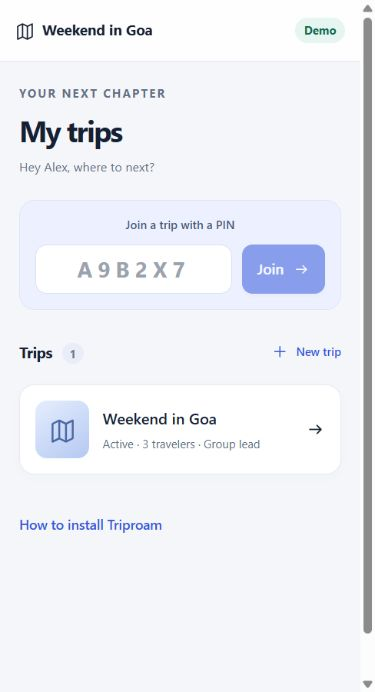
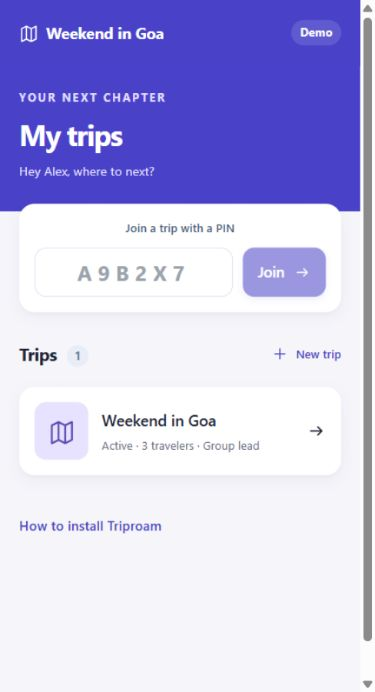
Redesign TripRoam with indigo cards and streamlined mobile flows

diff --git a/client/src/reference.css b/client/src/reference.css
@@ -1,0 +1,21 @@
+/* Indigo travel wallet, based on the supplied mobile references. */
+:root{--accent:#4841c6;--ink:#1d2034;--muted:#65677d;--canvas:#f5f5fa;--line:#e7e7f0;--positive:#087f60;--danger:#b63850;--card-shadow:0 5px 14px #27254b0c,0 2px 3px #27254b05}
+body{background:#eeeef5;font-family:Inter,ui-sans-serif,system-ui,-apple-system,"Segoe UI",sans-serif}
+.mobile-app{max-width:880px;margin:auto;background:linear-gradient(180deg,#4942c9 0,#4942c9 220px,var(--canvas) 220px);min-height:100dvh}
+.mobile-header{background:#4942c9;color:#fff;border:0;padding:calc(10px + env(safe-area-inset-top)) 20px 10px;min-height:68px;box-shadow:none}
+.mobile-header>strong{font-size:16px;font-weight:650}.mobile-header .icon-button{background:#ffffff14;color:white}.mobile-header .text-button{color:white}.mobile-header .connection-label{background:#ffffff20;color:#fff}
+.mobile-main{padding:24px 20px calc(170px + env(safe-area-inset-bottom));max-width:760px}.mobile-page-heading{color:#fff;gap:8px;margin-bottom:24px}.mobile-page-heading h1{font-size:30px;letter-spacing:-1px;font-weight:750;line-height:1.2;overflow-wrap:anywhere}.mobile-page-heading .eyebrow{color:#e1deff;font-size:11px;letter-spacing:1.4px}
+.primary,.google-button,.join-strip button{background:var(--accent);color:#fff;box-shadow:0 3px 7px #4841c626;border-radius:12px}.primary:hover,.google-button:hover{background:#3932aa}.secondary{background:#f2f1fc;border:1px solid #e4e1f6;color:#403aa5;border-radius:12px}.text-button{color:var(--accent)}button,a,summary{transition:background-color .15s,color .15s,box-shadow .15s}button:focus-visible,a:focus-visible,summary:focus-visible{outline:3px solid #e5a633;outline-offset:3px}input:focus-visible,select:focus-visible{outline:2px solid var(--accent);outline-offset:2px}
+.kitty-card{background:#fff;color:var(--ink);border-radius:18px;padding:22px;box-shadow:var(--card-shadow);border:1px solid #eae9f3;overflow:visible}.kitty-card::after{display:none}.kitty-top>span:first-child{color:var(--ink);font-size:15px;letter-spacing:0;font-weight:650}.kitty-top>span:first-child svg{color:var(--accent)}.kitty-tag{background:#efedff;color:#5046ab;border:0;font-size:11px}.kitty-card h2{color:var(--ink);font-size:40px;margin:22px 0 5px;font-weight:750}.kitty-card p{color:var(--muted);font-size:13px}.kitty-actions{border-color:var(--line);margin-top:18px;padding-top:12px}.kitty-actions button{color:var(--accent);font-size:13px}.kitty-actions .manage-kitty{background:var(--accent);color:#fff;border-radius:10px;padding:9px 14px}
+.section-title{font-size:18px;margin:26px 0 14px}.metric-card{border:0;border-radius:16px;box-shadow:var(--card-shadow);padding:18px}.metric-card>svg{background:#efedff;color:var(--accent)}.metric-card>strong{font-size:28px}.metric-card>span{color:var(--muted);font-size:13px}.activity-list{background:white;border:0;box-shadow:var(--card-shadow);border-radius:16px}.activity-row{padding:18px 16px}.activity-copy>strong{font-size:14px}.activity-icon{background:#eeecff;color:var(--accent)}.activity-amount{font-size:14px}.activity-copy small{color:var(--muted)}
+.bottom-nav{width:min(100%,880px);grid-template-columns:repeat(4,1fr);border-radius:0;background:#fffffffa;padding:8px 10px calc(10px + env(safe-area-inset-bottom));box-shadow:0 -5px 20px #27254b08}.bottom-nav button{font-size:11px;color:#6c6b80;gap:5px}.bottom-nav button[aria-current=page]{background:#efedff;color:var(--accent)}.expense-fab{left:auto;right:max(18px,calc((100vw - 840px)/2));transform:none;bottom:calc(94px + env(safe-area-inset-bottom));width:56px;height:56px;min-height:56px;padding:0;border:0;border-radius:17px;background:var(--accent);box-shadow:0 5px 15px #4841c64d}.expense-fab svg{width:27px;height:27px}.expense-fab span{position:absolute;width:1px;height:1px;overflow:hidden;clip-path:inset(50%)}
+.settlement-tabs,.pocket-toggle{background:#e7e5f3;border-radius:14px;padding:5px;gap:5px}.settlement-tabs button{min-height:44px;color:#54516b;font-size:13px}.settlement-tabs button[aria-pressed=true],.pocket-toggle button[aria-pressed=true]{color:var(--accent);background:#fff;box-shadow:0 2px 5px #29274d20}.settlement-totals{border:0;box-shadow:var(--card-shadow);padding:23px 18px;border-radius:17px}.settlement-totals strong{font-size:32px;font-weight:750;letter-spacing:-1px}.settlement-totals span{font-size:13px;margin-bottom:5px}.positive{color:var(--positive)}.negative{color:var(--danger)}
+.settlement-actions{border:0;background:transparent;padding:0;margin:18px 0}.settlement-actions .approval-hint{display:flex;gap:7px;align-items:center;font-size:12px;margin:12px 0 24px}.balance-group{margin:0 0 25px}.balance-group h2{font-size:19px;margin:0 0 12px;letter-spacing:-.3px}.payment-action{border:0;background:#fff;border-radius:16px;box-shadow:var(--card-shadow);padding:17px;margin-bottom:12px;display:flex;flex-wrap:wrap;align-items:center;gap:14px}.payment-action .balance-person{display:flex;align-items:center;gap:12px;flex:1;min-width:160px;margin:0;justify-content:flex-start}.balance-person .avatar{width:43px;height:43px;border-radius:50%;display:grid;place-items:center;flex-shrink:0;font-size:19px;font-weight:600}.balance-person .mint{background:#d9f1e8;color:#176c54}.balance-person .rose{background:#fbe1df;color:#9a424c}.balance-person>div{display:grid;gap:4px;min-width:0}.balance-person strong{font-size:15px;overflow-wrap:anywhere}.balance-person small{font-size:13px;color:var(--muted)}.payment-action>button{min-height:44px;font-size:13px;padding:10px 16px}.balance-empty{padding:16px;background:#eeedf5;border-radius:12px;font-size:13px;color:var(--muted)}.payment-request{padding:18px;background:white;border:1px solid #d9d5f6;border-radius:16px;margin-bottom:12px;box-shadow:var(--card-shadow)}.payment-message{background:#ebe9fc;color:#393371}.settlement-list{border:0;box-shadow:var(--card-shadow);padding:8px 16px}.whole-trip-balance{padding:14px 0}.ledger-note{font-size:12px}.settlement-actions details>summary{font-size:14px;color:var(--accent)}
+.payment-settings,.sync-status-card,.settings-account{background:#fff;border:0;border-radius:17px;box-shadow:var(--card-shadow);padding:18px;margin:20px 0}.payment-settings summary{font-size:16px}.sync-status-card{margin-top:0;text-align:center;padding:20px}.sync-status-card .section-heading{margin:0 0 20px}.sync-status-card h2{font-size:17px}.sync-status-card>svg{display:block;margin:14px auto;color:var(--accent)}.sync-status-card>strong{font-size:15px;display:block;margin:14px 0 6px}.sync-status-card>p{font-size:13px;color:var(--muted);line-height:1.6}.sync-status-card>button{margin:16px auto 0;gap:8px}.settings-account{display:grid;gap:7px}.settings-account>span{color:var(--muted);font-size:12px}.settings-account .text-button{justify-self:start}.connection-label{background:#dcf4e8;color:#126749}.inbox-item.unread{background:#f1efff}
+.expense-dialog{width:min(100%,540px);border-radius:27px 27px 0 0;box-shadow:0 -8px 50px #29244a33}.expense-dialog::backdrop,.payment-dialog::backdrop{background:#20213680;backdrop-filter:blur(5px)}.expense-dialog form{padding:12px 22px calc(18px + env(safe-area-inset-bottom))}.sheet-handle{width:34px;height:4px;flex-shrink:0;border-radius:10px;background:#c8c7d3;margin:0 auto 18px}.expense-dialog .dialog-heading{margin-bottom:12px;align-items:center}.expense-dialog .dialog-heading .eyebrow{display:none}.expense-dialog .dialog-heading h2{font-size:22px;font-weight:700}.expense-dialog .amount-input{display:grid;text-align:center;color:var(--muted);font-size:12px;margin:16px 0 8px}.expense-dialog .amount-input>span{border:0;justify-content:center;background:#fff}.expense-dialog .amount-input>span>span{font-size:31px;color:var(--ink);padding:0}.expense-dialog .amount-input input{font-size:44px;font-weight:700;max-width:230px;letter-spacing:-1.4px;text-align:center;background:#fff;min-height:76px;padding:10px 0}.expense-dialog .source-note{margin:10px 0;color:var(--muted)}.expense-dialog input:not([type=checkbox]),.expense-dialog select{border-radius:10px;background:#f1f0f7;border-color:#e6e4ef}.expense-dialog .amount-input input{background:#fff}.expense-dialog .people{grid-template-columns:1fr 1fr}.expense-dialog .person-choice{font-size:13px;border-color:#e4e1ee}.expense-dialog .person-choice:has(input:checked){background:#efedff;border-color:#afa8e7}.expense-dialog .person-choice input{accent-color:var(--accent)}.expense-dialog .payment-preview{background:#f3f1fc;color:#524d72;border-radius:12px}.expense-dialog .keypad-toggle{margin:0 auto 16px;font-size:12px}.expense-dialog .dialog-footer .primary{background:var(--accent);font-size:15px}.expense-dialog .dialog-footer{padding-top:12px;margin-top:12px}.payment-dialog{border-radius:23px}.payment-dialog .upi-address{background:#efedff}.toast{background:#302968}
+.dashboard-title{color:#fff}.dashboard-title p{color:#e5e1ff}.join-strip{background:#fff;border:0;box-shadow:var(--card-shadow);position:static}.adventure-card{box-shadow:var(--card-shadow);border:0}.adventure-art{background:#e7e2ff;color:#5b4db0}.trip-people{box-shadow:var(--card-shadow);border:0}.trip-people code{background:#efedff;color:var(--accent)}.auth-shell{background:radial-gradient(ellipse at 50% 30%,#e5e0ff,transparent 65%),#f7f6fc}.logo-mark{background:var(--accent)}.login-logo h1 span{color:var(--accent)}.tutorial-trigger{color:var(--accent)}
+@media(min-width:800px){.mobile-app{box-shadow:0 0 50px #27254b0b}.mobile-main{padding-top:30px}.mobile-header{padding-left:60px;padding-right:60px}.mobile-page-heading h1{font-size:36px}.kitty-card{padding:26px}.bottom-nav{border-radius:20px 20px 0 0}.expense-dialog{inset:0;margin:auto;border-radius:25px;max-height:90dvh}.expense-dialog form{max-height:90dvh}}
+@media(max-width:380px){.mobile-main{padding-left:16px;padding-right:16px}.mobile-header{padding-left:12px;padding-right:12px}.mobile-page-heading h1{font-size:27px}.settlement-totals{gap:8px;padding:18px 14px}.settlement-totals strong{font-size:27px}.payment-action{padding:15px}.payment-action>button{width:100%}.expense-dialog form{padding-left:16px;padding-right:16px}.expense-dialog .people{grid-template-columns:1fr}.metric-card>strong{font-size:23px}.kitty-card h2{font-size:36px}}
+@media(prefers-reduced-motion:reduce){*,*::before,*::after{transition:none!important;animation:none!important}}
+.dashboard-title .eyebrow{color:#e1deff}.mobile-page-heading+.page-description{color:var(--muted)}
+.mobile-page-heading+.page-description{color:#eeebff}.loading-state{background:white;border-radius:18px;box-shadow:var(--card-shadow)}

diff --git a/client/src/App.jsx b/client/src/App.jsx
@@ -1,3 +1,4 @@
+import Settings from './components/Settings.jsx';
 import { useEffect, useRef, useState } from 'react';
 import { useLiveTrip } from './useLiveTrip.js';
 import { useOfflineQueue } from './useOfflineQueue.js';
@@ -17,7 +18,7 @@ import ExpenseDialog from './components/ExpenseDialog.jsx';
 import { Icon } from './components/ui.jsx';
 import { api, getSession, clearSession } from './api.js';
 
-const pages = { overview: 'Overview', feed: 'Live feed', balances: 'Settlement', purse: 'Kitty history' };
+const pages = { overview: 'Overview', feed: 'Live feed', balances: 'Settlement', purse: 'Kitty history', settings: 'Settings & sync' };
 
 export default function App() {
   const [session, setSession] = useState(getSession);
@@ -83,20 +84,20 @@ export default function App() {
     <main className="mobile-main">
       {error&&<p className="error" role="alert">{error}</p>}{offline.storageError&&<p className="error" role="alert">{offline.storageError}</p>}
       {!session||!tripId?<><Onboarding session={session} onSession={setSession} onJoinSuccess={selectTrip} trips={trips}/>{session&&<InstallApp/>}</>:!data?<div className="loading-state"><Icon name="trip" size={32}/><h1>{error?'Trip unavailable':'Loading your trip…'}</h1><button className="secondary" onClick={backToTrips}>Back to my trips</button></div>:<>
-        <div className="mobile-page-heading"><span className="eyebrow">{page==='overview'?'TRIP OVERVIEW':'TRIP DETAILS'}</span><h1>{pages[page]}</h1></div>
+        <div className="mobile-page-heading"><span className="eyebrow">{page==='overview'?'TRIP OVERVIEW':'TRIP DETAILS'}</span><h1>{page==='overview'?data.trip.name:pages[page]}</h1></div>
         {(queued.length>0||disconnected)&&<SyncQueue rows={queued} cached={cached} busy={offline.busy} retry={offline.retry} sync={()=>{offline.sync();void refresh();}}/>}
         {data.trip.status==='ended'&&<div className="ended-banner"><Icon name="check"/>Trip ended · Final balances below</div>}
         {page==='overview'&&<Overview data={data} userId={userId} name={name} lead={lead} manage={()=>setEntryKind('expense')} history={()=>setPage('purse')} feed={()=>setPage('feed')}/>}
-        {page==='feed'&&<LiveFeed data={data} rows={queued} name={name} userId={userId}/>}
+        {page==='settings'&&<Settings session={session} disconnected={disconnected} status={status} queued={queued} busy={refreshing||offline.busy} onSync={()=>{offline.sync();void refresh();}} onOpenTrip={id=>{selectTrip(id);setPage('balances');}} onLogout={logout}/> }{page==='feed'&&<LiveFeed data={data} rows={queued} name={name} userId={userId}/>}
         {page==='balances'&&<Balances data={data} userId={userId} name={name} reload={reload}/>}
         {page==='purse'&&<><button className="text-button" onClick={()=>setPage('overview')}><Icon name="back"/>Overview</button><Purse data={data} name={name}/></>}
         {page==='overview'&&lead&&data.trip.status!=='ended'&&<button className="end-trip-link" onClick={()=>setEnding(true)}>End trip<Icon name="arrow" size={16}/></button>}
         {page==='overview'&&<details className="trip-people"><summary><Icon name="users"/>{data.members.length} travelers · Invite friends<Icon name="down"/></summary><p>Share this trip PIN</p><code>{data.trip.joinCode}</code>{data.members.map(member=><div key={member._id}>{member.displayName}<small>{data.trip.groupLeads.includes(member._id)?'Group lead':'Member'}</small></div>)}</details>}
       </>}
-      {session&&<><NotificationInbox key={session.user._id} session={session} onOpenTrip={id=>{selectTrip(id);setPage('balances');}}/><PaymentProfile key={session.user._id}/></>}
+      {session&&!tripId&&<><NotificationInbox key={session.user._id} session={session} onOpenTrip={id=>{selectTrip(id);setPage('balances');}}/><PaymentProfile key={session.user._id}/></>}
       <Tutorial/>
     </main>
-    {session&&tripId&&data&&<>{data.trip.status!=='ended'&&<button className="expense-fab" onClick={()=>setEntryKind('personal')}><Icon name="plus"/>Add expense</button>}<nav className="bottom-nav" aria-label="Trip navigation">{[['overview','Overview','trip'],['feed','Live Feed','expenses'],['balances','Settlement','balances']].map(([id,label,icon])=><button key={id} aria-current={(page===id||(id==='overview'&&page==='purse'))?'page':undefined} onClick={()=>{setPage(id);window.scrollTo({top:0,behavior:'instant'});}}><Icon name={icon}/><span>{label}</span></button>)}</nav></>}
+    {session&&tripId&&data&&<>{data.trip.status!=='ended'&&page!=='settings'&&<button aria-label="Add expense" className="expense-fab" onClick={()=>setEntryKind('personal')}><Icon name="plus"/><span>Add expense</span></button>}<nav className="bottom-nav" aria-label="Trip navigation">{[['overview','Overview','trip'],['feed','Expenses','expenses'],['balances','Balances','balances'],['settings','Settings','settings']].map(([id,label,icon])=><button key={id} aria-current={(page===id||(id==='overview'&&page==='purse'))?'page':undefined} onClick={()=>{setPage(id);window.scrollTo({top:0,behavior:'instant'});}}><Icon name={icon}/><span>{label}</span></button>)}</nav></>}
     {notice&&<div className="toast" role="status"><Icon name="check"/>{notice}<button className="icon-button" aria-label="Dismiss notification" onClick={()=>setNotice('')}><Icon name="close"/></button></div>}
     {ending&&data&&<EndTripDialog trip={data.trip} pending={queued.length} onClose={()=>setEnding(false)} onEnded={()=>{setEnding(false);setPage('balances');void refresh('Trip ended. Final balances are ready.');}}/>}
     {entryKind&&data&&data.trip.status!=='ended'&&<ExpenseDialog initialKind={entryKind} data={data} user={session.user} enqueue={offline.enqueue} onClose={()=>setEntryKind(null)} onSaved={saved}/>}

diff --git a/client/src/components/Balances.jsx b/client/src/components/Balances.jsx
@@ -8,9 +8,5 @@ export default function Balances({data,userId,name,reload=async()=>{}}){
  const explanation=t=><details className="settlement-reason"><summary>Why this payment?</summary><p>{name(t.from)} owes {money(-netFor(t.from))} overall, and {name(t.to)} is owed {money(netFor(t.to))} overall after personal payments and expense shares are offset. Paying {money(t.amountPaise)} directly settles that amount of both balances without passing it through other members. Each person's final balance stays the same.</p></details>;
  const owed=transactions.filter(t=>t.to===userId).reduce((s,t)=>s+t.amountPaise,0);
  const owing=transactions.filter(t=>t.from===userId).reduce((s,t)=>s+t.amountPaise,0);
- return <>{!data.kittySettlement&&<p className="ledger-note">Reconnect to load Kitty settlement for this saved trip.</p>}<div className="settlement-tabs" role="group" aria-label="Settlement ledger"><button aria-pressed={ledger==='personal'} onClick={()=>setLedger('personal')}>Personal Pocket</button><button disabled={!data.kittySettlement} aria-pressed={ledger==='kitty'} onClick={()=>setLedger('kitty')}>Group Kitty</button></div><p className="page-description">{ledger==='kitty'?(data.kittySettlement?.leadId===userId?'As group lead, collect amounts owed and return unused contributions.':'Your contributions minus your share of spending. Settle with '+name(data.kittySettlement?.leadId)+'.'):'Direct payments after offsetting personal expenses.'}</p><div className="settlement-totals"><div><span>You are owed</span><strong className="positive">{money(owed)}</strong></div><div><span>You owe</span><strong className="negative">{money(owing)}</strong></div></div><section className="settlement-list" aria-label="Balances with travelers">{data.members.filter(m=>m._id!==userId).map(member=>{
- const incoming=transactions.find(t=>t.from===member._id&&t.to===userId)?.amountPaise||0;
- const outgoing=transactions.find(t=>t.to===member._id&&t.from===userId)?.amountPaise||0;
- return <div key={member._id}><div className="settlement-row"><span className="avatar">{member.displayName.slice(0,1)}</span><strong>{member.displayName}</strong><span className={'balance-badge '+(incoming?'receive':outgoing?'owe':'settled')}>{incoming?'Owes You '+money(incoming):outgoing?'You Owe '+money(outgoing):'Settled up'}</span></div>{ledger==='personal'&&(incoming||outgoing)>0&&explanation(transactions.find(t=>(t.from===member._id&&t.to===userId)||(t.to===member._id&&t.from===userId)))}</div>;
- })}{data.members.length===1&&<div className="friendly-empty"><Icon name="users"/><h3>Better with company</h3><p>Invite a friend from Overview to start splitting expenses.</p></div>}</section><p className="ledger-note"><Icon name="lock" size={16}/>{ledger==='kitty'?(data.kittySettlement?.leadId===userId?'Refund members in credit. Collect from members who owe.':'Positive credit: the lead refunds you. Negative credit: you pay the lead.'):'Chained debts are offset: if A owes B ₹100 and B owes C ₹100, A pays C ₹100. B has a zero net balance. Kitty settlement stays separate.'}</p><button className="text-button" aria-expanded={everyone} onClick={()=>setEveryone(!everyone)}>Whole-trip balances<Icon name="down"/></button>{everyone&&<section className="settlement-list">{transactions.length?transactions.map(t=><div key={t.from+t.to}><div className="whole-trip-balance"><span>{name(t.from)} owes {name(t.to)}</span><strong>{money(t.amountPaise)}</strong></div>{ledger==='personal'&&explanation(t)}</div>):<p className="ledger-note">Everyone is settled up.</p>}</section>}<SettlementActions data={data} userId={userId} name={name} ledger={ledger} reload={reload}/></>;
+ return <>{!data.kittySettlement&&<p className="ledger-note">Reconnect to load Kitty settlement for this saved trip.</p>}<div className="settlement-tabs" role="group" aria-label="Settlement ledger"><button aria-pressed={ledger==='personal'} onClick={()=>setLedger('personal')}>Personal Pocket</button><button disabled={!data.kittySettlement} aria-pressed={ledger==='kitty'} onClick={()=>setLedger('kitty')}>Group Kitty</button></div><p className="page-description">{ledger==='kitty'?(data.kittySettlement?.leadId===userId?'As group lead, collect amounts owed and return unused contributions.':'Your contributions minus your share of spending. Settle with '+name(data.kittySettlement?.leadId)+'.'):'Direct payments after offsetting personal expenses.'}</p><div className="settlement-totals"><div><span>You are owed</span><strong className="positive">{money(owed)}</strong></div><div><span>You owe</span><strong className="negative">{money(owing)}</strong></div></div><SettlementActions data={data} userId={userId} name={name} ledger={ledger} reload={reload}/><p className="ledger-note"><Icon name="lock" size={16}/>{ledger==='kitty'?(data.kittySettlement?.leadId===userId?'Refund members in credit. Collect from members who owe.':'Positive credit: the lead refunds you. Negative credit: you pay the lead.'):'Chained debts are offset: if A owes B ₹100 and B owes C ₹100, A pays C ₹100. B has a zero net balance. Kitty settlement stays separate.'}</p><button className="text-button" aria-expanded={everyone} onClick={()=>setEveryone(!everyone)}>Whole-trip balances<Icon name="down"/></button>{everyone&&<section className="settlement-list">{transactions.length?transactions.map(t=><div key={t.from+t.to}><div className="whole-trip-balance"><span>{name(t.from)} owes {name(t.to)}</span><strong>{money(t.amountPaise)}</strong></div>{ledger==='personal'&&explanation(t)}</div>):<p className="ledger-note">Everyone is settled up.</p>}</section>}</>;
 }

diff --git a/client/src/components/PaymentTools.jsx b/client/src/components/PaymentTools.jsx
@@ -14,8 +14,8 @@ export function SettlementActions({data,userId,name,ledger,reload}){
  const transactions=ledger==='personal'?data.transactions:data.kittySettlement?.transactions||[];
  const records=(data.payments||[]).filter(p=>p.ledger===ledger);
  async function act(path,body){setBusy(true);setMessage('');try{await api('/payments/trips/'+data.trip._id+path,body);await reload();return true;}catch(e){setMessage(e.message);return false;}finally{setBusy(false);}}
- return <section className="settlement-actions" aria-label="Payments and approvals"><h2>Pay & settle</h2><p>Balances change only after the recipient confirms receipt.</p>
- {transactions.filter(t=>t.from===userId||t.to===userId).map(t=>{const pending=records.some(p=>p.state==='pending'&&p.from===t.from&&p.to===t.to);return <article className="payment-action" key={t.from+t.to}><div><strong>{t.from===userId?'Pay '+name(t.to):name(t.from)+' owes you'}</strong><span>{money(t.amountPaise)}</span></div>{t.from===userId?<button className="primary" disabled={pending||busy} onClick={()=>setPayment(t)}>{pending?'Approval pending':'Pay / record payment'}</button>:<button className="secondary" disabled={pending||busy} onClick={async()=>{if(await act('/remind',{to:t.from,ledger}))setMessage('Reminder sent to their inbox. Phone alerts depend on their notification settings.');}}>{pending?'Review payment below':'Remind'}</button>}</article>;})}
+ return <section className="settlement-actions" aria-label="Payments and approvals"><p className="approval-hint"><Icon name="lock" size={15}/>Balances update after receipt is confirmed.</p>
+ {[true,false].map(incoming=><section className="balance-group" key={String(incoming)}><h2>{incoming?'Owed to you':'You owe'}</h2>{!transactions.some(t=>incoming?t.to===userId:t.from===userId)&&<p className="balance-empty">{incoming?'No payments to collect.':'Nothing to pay. All clear!'}</p>}{transactions.filter(t=>incoming?t.to===userId:t.from===userId).map(t=>{const pending=records.some(p=>p.state==='pending'&&p.from===t.from&&p.to===t.to);return <article className="payment-action" key={t.from+t.to}><div className="balance-person"><span className={"avatar "+(incoming?"mint":"rose")}>{name(incoming?t.from:t.to).slice(0,1)}</span><div><strong>{name(incoming?t.from:t.to)}</strong><small>{incoming?"Owes you":"You owe"} <b className={incoming?"positive":"negative"}>{money(t.amountPaise)}</b></small></div></div>{t.from===userId?<button className="primary" disabled={pending||busy} onClick={()=>setPayment(t)}>{pending?'Approval pending':'Pay / settle'}</button>:<button className="secondary" disabled={pending||busy} onClick={async()=>{if(await act('/remind',{to:t.from,ledger}))setMessage('Reminder sent to their inbox. Phone alerts depend on their notification settings.');}}>{pending?'Review payment below':'Remind'}</button>}</article>;})}</section>)}
  {!transactions.some(t=>t.from===userId||t.to===userId)&&<p>You have no outstanding payments in this ledger.</p>}
  {records.filter(p=>p.state==='pending').map(p=><article className="payment-request" key={p._id}><strong>{p.from===userId?'You reported paying '+name(p.to):name(p.from)+' reported paying you'} · {money(p.amountPaise)}</strong><p>Waiting for recipient confirmation</p>{p.to===userId?<div className="payment-buttons"><button className="primary" disabled={busy} onClick={()=>setReview(p)}>Review receipt</button><button className="secondary" disabled={busy} onClick={()=>act('/requests/'+p._id+'/reject',{})}>Not received</button></div>:<button className="text-button" disabled={busy} onClick={()=>act('/requests/'+p._id+'/cancel',{})}>Cancel request</button>}</article>)}
  {records.some(p=>p.state!=='pending')&&<details><summary>Payment history</summary>{records.filter(p=>p.state!=='pending').sort((a,b)=>new Date(b.createdAt)-new Date(a.createdAt)).map(p=><p key={p._id}>{name(p.from)} → {name(p.to)} · {money(p.amountPaise)}<br/><small>{p.state==='accepted'?'Receipt confirmed':p.state} · {new Date(p.resolvedAt||p.createdAt).toLocaleDateString()}</small></p>)}</details>}

diff --git a/client/src/tutorial-capture.jsx b/client/src/tutorial-capture.jsx
@@ -1,5 +1,5 @@
 // Development-only screenshot fixture. No API calls, login, or real trip data.
-import React from 'react';
+import React, {useState} from 'react';
 import { createRoot } from 'react-dom/client';
 import Onboarding from './components/Onboarding.jsx';
 import { Overview } from './components/TripViews.jsx';
@@ -15,11 +15,13 @@ const trip={_id:'demo-trip',name:'Weekend in Goa',status:'active',groupLeads:['d
 const data={trip,members,expenses:[{_id:'demo-expense',recordedBy:'demo-a',title:'Lunch by the beach',amountPaise:120000,splitAmong:members.map(m=>m._id),clientCreatedAt:'2026-09-20T08:30:00Z'}],purseEntries:[],transactions:[{from:'demo-b',to:'demo-a',amountPaise:40000},{from:'demo-c',to:'demo-a',amountPaise:40000}],kittySettlement:{leadId:'demo-a',transactions:[]}};
 const noop=()=>{};
 function Capture(){
- const screen=new URLSearchParams(location.search).get('screen')||'trips';
+ const [screen,setScreen]=useState(new URLSearchParams(location.search).get('screen')||'trips');
  const expense=screen==='expense'||screen==='kitty';
  const name=id=>members.find(m=>m._id===id)?.displayName;
  return <div className="mobile-app"><header className="mobile-header"><Icon name="trip"/><strong>{screen==='trips'?'triproam.':trip.name}</strong><span className="connection-label">Demo</span></header><main className="mobile-main">
- {screen==='trips'||screen==='install'?<><Onboarding session={{user:members[0]}} trips={[trip]} onSession={noop} onJoinSuccess={noop}/>{screen==='install'&&<InstallApp/>}</>:<><div className="mobile-page-heading"><span className="eyebrow">TRIP DETAILS</span><h1>{screen==='settlement'?'Settlement':'Overview'}</h1></div>{screen==='settlement'?<Balances data={data} userId="demo-a" name={name}/>:<Overview data={data} userId="demo-a" name={name} lead manage={noop} history={noop} feed={noop}/>}</>}
- </main>{!['trips','install'].includes(screen)&&<><button className="expense-fab"><Icon name="plus"/>Add expense</button><nav className="bottom-nav">{[['trip','Overview'],['expenses','Live Feed'],['balances','Settlement']].map(([icon,label])=><button key={label} aria-current={label===(screen==='settlement'?'Settlement':'Overview')?'page':undefined}><Icon name={icon}/><span>{label}</span></button>)}</nav></>}{expense&&<ExpenseDialog initialKind={screen==='kitty'?'contribution':'personal'} data={data} user={members[0]} onClose={noop} onSaved={noop} enqueue={noop}/>}</div>;
+ {screen==='trips'||screen==='install'?<><Onboarding session={{user:members[0]}} trips={[trip]} onSession={noop} onJoinSuccess={()=>setScreen('overview')}/>{screen==='install'&&<InstallApp/>}</>:<><div className="mobile-page-heading"><span className="eyebrow">TRIP DETAILS</span><h1>{screen==='settlement'?'Settlement':trip.name}</h1></div>{screen==='settlement'?<Balances data={data} userId="demo-a" name={name}/>:<Overview data={data} userId="demo-a" name={name} lead manage={()=>setScreen('kitty')} history={noop} feed={noop}/>}</>}
+ </main>{!['trips','install'].includes(screen)&&<><button aria-label="Add expense" className="expense-fab" onClick={()=>setScreen('expense')}><Icon name="plus"/><span>Add expense</span></button><nav className="bottom-nav">{[['trip','Overview','overview'],['expenses','Expenses','overview'],['balances','Balances','settlement'],['settings','Settings','install']].map(([icon,label,id])=><button key={label} onClick={()=>setScreen(id)} aria-current={id===(screen==='settlement'?'settlement':'overview')&&label!=='Expenses'?'page':undefined}><Icon name={icon}/><span>{label}</span></button>)}</nav></>}{expense&&<ExpenseDialog initialKind={screen==='kitty'?'contribution':'personal'} data={data} user={members[0]} onClose={()=>setScreen('overview')} onSaved={()=>setScreen('overview')} enqueue={noop}/>}</div>;
 }
 if(import.meta.env.DEV)createRoot(document.getElementById('root')).render(<Capture/>);
+
+import './reference.css';

diff --git a/client/src/components/Tutorial.jsx b/client/src/components/Tutorial.jsx
@@ -5,10 +5,10 @@ import './tutorial.css';
 const SEEN = 'triproam-tutorial-v1';
 export const tutorialSteps = [
   { title: 'Your trip starts here', image: 'trips', text: 'Continue with Google, then enter the six-character PIN from your group lead. Starting your own adventure? Tap New trip and give it a name.', target: 'Join with a PIN or create a new trip', box: [4, 28, 92, 27] },
-  { title: 'Keep every payment together', image: 'overview', text: 'Overview shows the shared Kitty and your balance. Tap Add expense whenever you pay. Invite friends by sharing the PIN under Travelers · Invite friends.', target: 'Tap Add expense to record a payment', box: [26, 79, 44, 10] },
-  { title: 'Choose who shares the cost', image: 'expense', text: 'Use Personal Pocket for money you paid. Enter the amount and description, then choose the people who shared it. Only me keeps an expense private. Check the split before saving.', target: 'Choose everyone who shared this expense', box: [4, 33, 88, 35] },
-  { title: 'One Kitty for shared spending', image: 'kitty', text: 'Choose Kitty, then Add my contribution to record money you put into the group fund. Everyone can contribute and view history; only the lead can record Kitty spending.', target: 'Switch to Kitty and choose a contribution', box: [4, 21, 88, 25] },
-  { title: 'Know who owes whom', image: 'settlement', text: 'Open Settlement for the amounts to pay or receive. Personal Pocket and Group Kitty are separate. TripRoam calculates balances; it does not transfer money. Check that entries say Synced before settling.', target: 'Check both settlement tabs', box: [4, 22, 88, 9] },
+  { title: 'Keep every payment together', image: 'overview', text: 'Overview shows the shared Kitty and your balance. Tap Add expense whenever you pay. Invite friends by sharing the PIN under Travelers · Invite friends.', target: 'Tap Add expense to record a payment', box: [74, 75, 16, 10] },
+  { title: 'Choose who shares the cost', image: 'expense', text: 'Use Personal Pocket for money you paid. Enter the amount and description, then choose the people who shared it. Only me keeps an expense private. Check the split before saving.', target: 'Choose everyone who shared this expense', box: [4, 43, 88, 29] },
+  { title: 'One Kitty for shared spending', image: 'kitty', text: 'Choose Kitty, then Add my contribution to record money you put into the group fund. Everyone can contribute and view history; only the lead can record Kitty spending.', target: 'Switch to Kitty and choose a contribution', box: [4, 19, 88, 25] },
+  { title: 'Know who owes whom', image: 'settlement', text: 'Open Balances for the amounts to pay or receive. Personal Pocket and Group Kitty are separate. Tap Pay / settle to open a payment app, then request receipt confirmation. Balances update after the recipient approves. Check that entries say Synced before settling.', target: 'Check both settlement tabs', box: [4, 23, 88, 9] },
   { title: 'Take TripRoam with you', image: 'install', text: 'Add TripRoam to your home screen for quick access. Open a trip online before going offline; saved payments sync when you reconnect with the app open.', target: 'Follow the steps for your device' },
 ];
 

diff --git a/client/src/payment-preview.jsx b/client/src/payment-preview.jsx
@@ -1,3 +1,4 @@
+import Settings from './components/Settings.jsx';
 // Development-only interactive payment preview. All API responses are in-memory fixtures.
 import React,{useState} from 'react';
 import {createRoot} from 'react-dom/client';
@@ -21,7 +22,9 @@ if(import.meta.env.DEV){
  };
  function Preview(){const [person,setPerson]=useState('sam'),[version,setVersion]=useState(0);const remaining=120000-payments.filter(p=>p.state==='accepted'&&p.ledger==='personal').reduce((n,p)=>n+p.amountPaise,0);
   const data={trip:{_id:'demo',name:'Demo weekend',participants:['alex','sam'],groupLeads:['alex']},members,transactions:remaining?[{from:'sam',to:'alex',amountPaise:remaining}]:[],kittySettlement:{leadId:'alex',transactions:[]},payments:[...payments]};
-  return <div className="mobile-app"><header className="mobile-header"><strong>Payment preview · demo only</strong></header><main className="mobile-main"><div className="payment-buttons">{members.map(m=><button className="secondary" key={m._id} onClick={()=>{user=m._id;setPerson(user);}}>{m.displayName}{m._id===person?' (current)':''}</button>)}</div><h1>Settlement</h1><Balances data={data} userId={person} name={id=>members.find(m=>m._id===id)?.displayName} reload={async()=>setVersion(version+1)}/><PaymentProfile key={person}/><NotificationInbox key={person+version} session={{token:'demo'}} onOpenTrip={()=>{}}/></main></div>;
+  return <div className="mobile-app"><header className="mobile-header"><strong>Payment preview · demo only</strong></header><main className="mobile-main"><div className="payment-buttons">{members.map(m=><button className="secondary" key={m._id} onClick={()=>{user=m._id;setPerson(user);}}>{m.displayName}{m._id===person?' (current)':''}</button>)}</div><div className="mobile-page-heading"><h1>{location.search.includes("settings")?"Settings & sync":"Settlement"}</h1></div>{location.search.includes("settings")?<Settings session={{token:"demo",user:members.find(m=>m._id===person)}} status="live" disconnected={false} queued={[]} busy={false} onSync={()=>{}} onOpenTrip={()=>{}} onLogout={()=>{}}/>:<><Balances data={data} userId={person} name={id=>members.find(m=>m._id===id)?.displayName} reload={async()=>setVersion(version+1)}/><PaymentProfile key={person}/><NotificationInbox key={person+version} session={{token:'demo'}} onOpenTrip={()=>{}}/></>}</main></div>;
  }
  createRoot(document.getElementById('root')).render(<Preview/>);
 }
+
+import './reference.css';

diff --git a/client/src/components/TripViews.jsx b/client/src/components/TripViews.jsx
@@ -8,7 +8,7 @@ export function Overview({data,userId,name,lead,manage,history,feed}){
   const spend=data.expenses.filter(e=>e.recordedBy===userId).reduce((s,e)=>s+e.amountPaise,0);
   const net=[...data.transactions,...(data.kittySettlement?.transactions||[])].reduce((s,t)=>s+(t.to===userId?t.amountPaise:0)-(t.from===userId?t.amountPaise:0),0);
   const recent=activity(data).slice(0,3);
-  return <><section className="kitty-card"><div className="kitty-top"><span><Icon name="purse"/>Group kitty</span><span className="kitty-tag">Shared funds</span></div><h2>{money(data.trip.purseBalancePaise)}</h2><p>{data.trip.purseBalancePaise<0?'Advanced by the group lead':'Available in your shared Kitty'}</p><div className="kitty-actions"><button onClick={history}>View history<Icon name="arrow" size={16}/></button>{lead&&data.trip.status!=='ended'&&<button className="manage-kitty" onClick={manage}>Manage Kitty</button>}</div></section>
+  return <><section className="kitty-card"><div className="kitty-top"><span><Icon name="purse"/>Purse summary</span><span className="kitty-tag">Group Kitty</span></div><h2>{money(data.trip.purseBalancePaise)}</h2><p>{data.trip.purseBalancePaise<0?'Advanced by the group lead':'Available in your shared Kitty'}</p><div className="kitty-actions"><button onClick={history}>View history<Icon name="arrow" size={16}/></button>{lead&&data.trip.status!=='ended'&&<button className="manage-kitty" onClick={manage}>Manage Kitty</button>}</div></section>
     <h2 className="section-title">Your balance</h2><div className="summary-grid"><section className="metric-card"><Icon name="expenses"/><span>Personal spend</span><strong>{money(spend)}</strong><small>Personal payments</small></section><section className={'metric-card '+(net<0?'negative':'positive')}><Icon name="balances"/><span>{data.kittySettlement?'Net balance':'Personal balance'}</span><strong>{money(Math.abs(net))}</strong><small>{net>0?'You are owed':net<0?'You owe':'All settled up'}</small></section></div>
     <div className="section-heading"><h2 className="section-title">Latest activity</h2><button className="text-button" onClick={feed}>See all<Icon name="arrow" size={16}/></button></div><section className="activity-list">{recent.length?recent.map(e=><ActivityRow key={e._id} entry={e} name={name}/>):<div className="friendly-empty"><Icon name="expenses"/><h3>A fresh start</h3><p>Your first expense will appear here.</p></div>}</section></>;
 }

diff --git a/client/src/components/ExpenseDialog.jsx b/client/src/components/ExpenseDialog.jsx
@@ -35,7 +35,7 @@ export default function ExpenseDialog({ initialKind, data, user, onClose, onSave
     } catch { setError('Could not save this payment on your device. Keep the form open and check browser storage before trying again.'); setSaving(false); }
   }
   return <dialog ref={dialog} className="expense-dialog" aria-labelledby="entry-title" onCancel={event => { event.preventDefault(); if (!saving) onClose(); }}>
-    <form onSubmit={save}><div className="dialog-heading"><div><span className="eyebrow">RECORD A PAYMENT</span><h2 id="entry-title">{kind === 'expense' ? 'Kitty spending' : 'Add expense'}</h2></div>
+    <form onSubmit={save}><div className="sheet-handle" aria-hidden="true"/><div className="dialog-heading"><div><span className="eyebrow">TRIP EXPENSE</span><h2 id="entry-title">{kind === 'expense' ? 'Kitty spending' : kind === 'contribution' ? 'Add contribution' : 'Add new expense'}</h2></div>
       <button type="button" className="icon-button" aria-label="Close expense form" disabled={saving} onClick={onClose}><Icon name="close"/></button></div>
       <div className="dialog-body"><fieldset disabled={saving} className="form-fields"><legend className="sr-only">Payment details</legend>
         <div className="pocket-toggle" role="group" aria-label="Payment source"><button type="button" aria-pressed={kind==='personal'} onClick={()=>setKind('personal')}><Icon name="expenses"/>Personal Pocket</button><button type="button" aria-pressed={kind!=='personal'} onClick={()=>setKind(lead?'expense':'contribution')}><Icon name="purse"/>Kitty</button></div>

diff --git a/client/src/components/Settings.jsx b/client/src/components/Settings.jsx
@@ -1,0 +1,10 @@
+import {Icon} from './ui.jsx';
+import {PaymentProfile} from './PaymentTools.jsx';
+import NotificationInbox from './NotificationInbox.jsx';
+import InstallApp from './InstallApp.jsx';
+
+export default function Settings({session,disconnected,status,queued,busy,onSync,onOpenTrip,onLogout}){
+ const pending=queued.filter(row=>row.state!=='synced').length;
+ return <><section className="sync-status-card"><div className="section-heading"><h2>Cloud sync</h2><span className="connection-label">{disconnected?'Offline':status==='live'?'Live':'Connecting'}</span></div><Icon name={disconnected?"cloud":"cloud-sync"} size={48}/><strong>{pending?`${pending} payments waiting to sync`:disconnected?'Saved on this device':status==='live'?'Your trip is up to date':'Connecting to your trip…'}</strong><p>{disconnected?'Saved payments stay on this device until you reconnect.':'Payments are shared with your group after syncing.'}</p><button className="secondary" disabled={busy} onClick={onSync}>Sync now<Icon name="refresh" size={16}/></button></section><NotificationInbox session={session} onOpenTrip={onOpenTrip}/><PaymentProfile/><InstallApp/><section className="settings-account"><span>Signed in as</span><strong>{session.user.displayName}</strong><button className="text-button" onClick={onLogout}>Sign out</button></section></>;
+}
+

diff --git a/client/src/components/ui.jsx b/client/src/components/ui.jsx
@@ -7,6 +7,8 @@ export function Icon({ name, size = 20, ...props }) {
     expenses: <><rect x="5" y="3" width="14" height="18" rx="2"/><path d="M9 8h6M9 12h6M9 16h3"/></>,
     balances: <><path d="M4 8h15m-4-4 4 4-4 4M20 16H5m4-4-4 4 4 4"/></>,
     purse: <><path d="M19 8V5a2 2 0 0 0-2-2H6a3 3 0 0 0 0 6h14v11H6a3 3 0 0 1-3-3V6"/><path d="M20 12h-5v5h5"/></>,
+    'cloud-sync': <><path d="M6 18a4 4 0 0 1-.6-7.95A6 6 0 0 1 17 8a5 5 0 0 1 1 10"/><path d="m9 15 3-3 3 3m-3-3v9"/></>,
+    settings: <><path d="M4 7h16M4 17h16"/><circle cx="9" cy="7" r="3" fill="currentColor"/><circle cx="15" cy="17" r="3" fill="currentColor"/></>,
     plus: <path d="M12 5v14M5 12h14"/>,
     arrow: <path d="M5 12h14m-5-5 5 5-5 5"/>,
     back: <path d="M19 12H5m5-5-5 5 5 5"/>,

diff --git a/client/src/main.jsx b/client/src/main.jsx
@@ -17,3 +17,5 @@ ReactDOM.createRoot(document.getElementById('root')).render(
 )
 
 import './mobile.css';
+
+import './reference.css';
